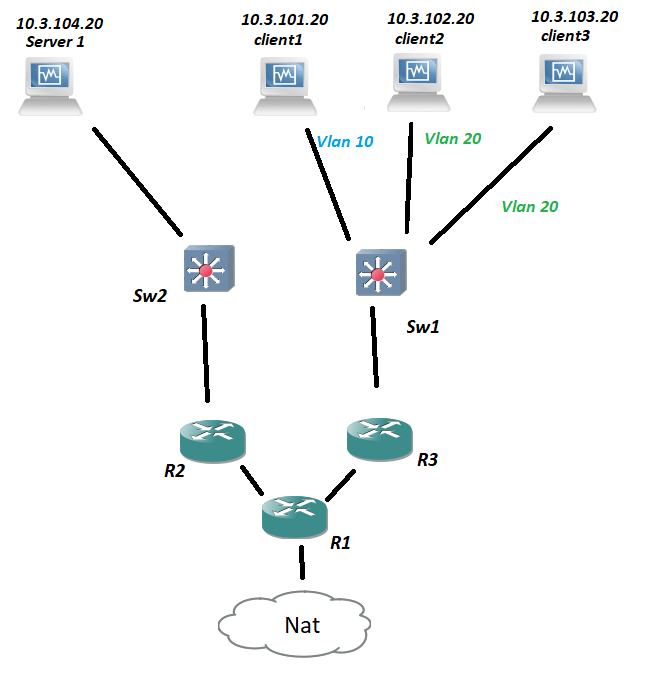
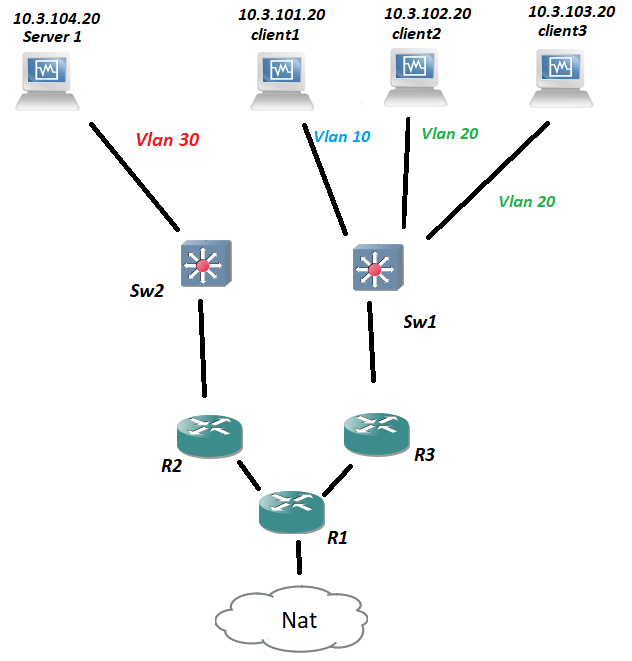
🐒

diff --git a/Tp 3/README.md b/Tp 3/README.md
@@ -437,7 +437,7 @@ reboot
 
         Switch1(config)#interface Ethernet0/1
         Switch1(config-if)#switchport mode access
-        Switch1(config-if)#switchport access vlan 1
+        Switch1(config-if)#switchport access vlan 10
         Switch1(config-if)#exit
 
 		Switch1(config)#interface Ethernet0/2
@@ -465,7 +465,7 @@ reboot
     ```
     Switch2(config)#interface Ethernet0/1
     Switch2(config-if)#switchport mode access
-    Switch2(config-if)#switchport access vlan 10
+    Switch2(config-if)#switchport access vlan 30
     Switch2(config-if)#exit
 
     Switch2(config)#interface Ethernet0/0
